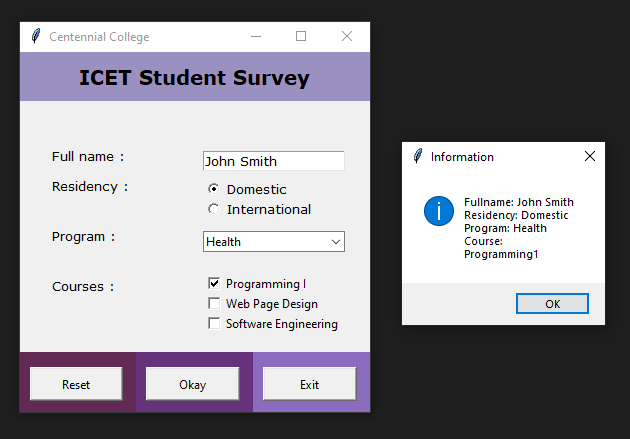
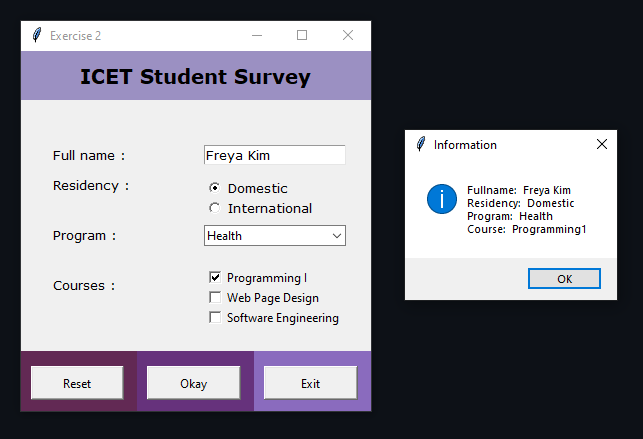
fix frame height

diff --git a/2_Tkinter_Gui_Exercise.py b/2_Tkinter_Gui_Exercise.py
@@ -27,14 +27,14 @@ def okay():
     if(softwareVar.get()==1):
         courseS+='software Engineering\n'
     
-    mb.showinfo('Information','Fullname: %s\nResidency: %s\nProgram: %s\nCourse: \n%s'%(fullname,status,programs,courseS))
+    mb.showinfo('Information','Fullname:  %s\nResidency:  %s\nProgram:  %s\nCourse:  %s'%(fullname,status,programs,courseS))
 
 def exit():
     window.destroy()
 
 # Create the Tkinter window.
 window = tk.Tk()
-window.title("Centennial College")
+window.title("Exercise 2")
 window.minsize(350,360)
 
 # Create a division with the help of Frame class and align them on TOP and BOTTOM with pack() method.
@@ -48,10 +48,10 @@ btm_frame = tk.Frame(master=window, height=60, bg="#9B90C2")
 btm_frame.pack(fill=tk.X)
 
 # Center left and right columns
-center_frame1 = tk.Frame(center_frame,width=25, height=250)
+center_frame1 = tk.Frame(center_frame,width=25, height=200)
 center_frame1.pack(fill=tk.X,side=tk.LEFT,expand=True)
 
-center_frame2 = tk.Frame(center_frame,width=150, height=250)
+center_frame2 = tk.Frame(center_frame,width=150, height=200)
 center_frame2.pack(fill=tk.X,side=tk.LEFT,expand=True)
 
 # Bottom 3 columns
@@ -75,14 +75,14 @@ Courses = tk.Label(center_frame1,text='Courses : ',anchor='w',font='Verdana 10',
 
 # Selections input - Text
 FullNameInput = tk.Entry(center_frame2,font='Verdana 10',bg='white')
-FullNameInput.defaultValue='XuTung Jin'
+FullNameInput.defaultValue='Freya Kim'
 FullNameInput.insert(tk.END,FullNameInput.defaultValue)
-FullNameInput.place(x=10,y=50,relwidth=0.8)
+FullNameInput.place(x=10,y=20,relwidth=0.8)
 
 # Selections input - Radio
 ResidencyS = tk.StringVar(None,"Domestic")
-DomesticR = tk.Radiobutton(center_frame2,font='Verdana 10',tristatevalue=0,text='Domestic',anchor='w',variable=ResidencyS,value='Domestic').place(x=10,y=75,relwidth=0.8)
-InternationalR = tk.Radiobutton(center_frame2,font='Verdana 10',tristatevalue=0,text='International',anchor='w',variable=ResidencyS,value='International').place(x=10,y=95,relwidth=0.8)
+DomesticR = tk.Radiobutton(center_frame2,font='Verdana 10',tristatevalue=0,text='Domestic',anchor='w',variable=ResidencyS,value='Domestic').place(x=10,y=50,relwidth=0.8)
+InternationalR = tk.Radiobutton(center_frame2,font='Verdana 10',tristatevalue=0,text='International',anchor='w',variable=ResidencyS,value='International').place(x=10,y=70,relwidth=0.8)
 
 # Selections input - Combo Box
 n=tk.StringVar()
@@ -90,15 +90,15 @@ ProgramC = ttk.Combobox(center_frame2,textvariable=n)
 ProgramC['values']=('AI','Gaming','Health','Software')
 ProgramC.current(2)
 ProgramC.grid(column=1,row=4)
-ProgramC.place(x=10,y=130,relwidth=0.8)
+ProgramC.place(x=10,y=100,relwidth=0.8)
 
 # Selections input - Check Box
 programVar = tk.IntVar(value=1)
 WebVar = tk.IntVar()
 softwareVar = tk.IntVar()
-ProgrammingC = tk.Checkbutton(center_frame2,text='Programming I',anchor='w',variable=programVar,state=NORMAL, offvalue=0).place(x=10,y=170,relwidth=0.8)
-WebC = tk.Checkbutton(center_frame2,text='Web Page Design',anchor='w',variable=WebVar, offvalue=0).place(x=10,y=190,relwidth=0.8)
-SoftwareC = tk.Checkbutton(center_frame2,text='Software Engineering',anchor='w',variable=softwareVar, offvalue=0).place(x=10,y=210,relwidth=0.8)
+ProgrammingC = tk.Checkbutton(center_frame2,text='Programming I',anchor='w',variable=programVar,state=NORMAL, offvalue=0).place(x=10,y=140,relwidth=0.8)
+WebC = tk.Checkbutton(center_frame2,text='Web Page Design',anchor='w',variable=WebVar, offvalue=0).place(x=10,y=160,relwidth=0.8)
+SoftwareC = tk.Checkbutton(center_frame2,text='Software Engineering',anchor='w',variable=softwareVar, offvalue=0).place(x=10,y=180,relwidth=0.8)
 
 # Buttons
 reset = tk.Button(btm_frame1,text='Reset',anchor='s',padx=5,pady=5,command=reset).place(x=10 , y=15 ,relwidth=0.8)
